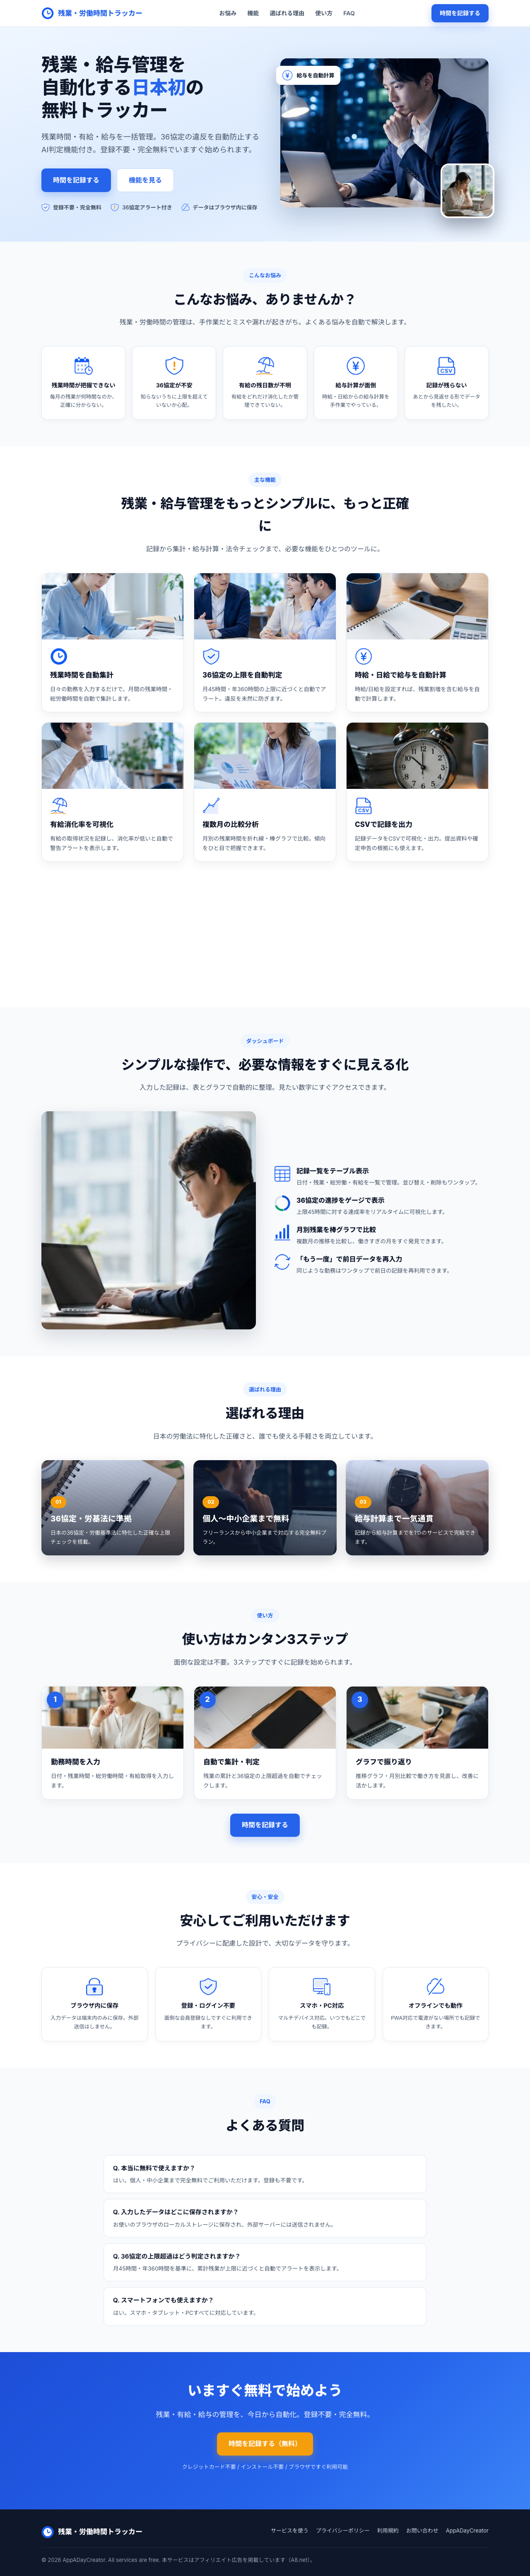
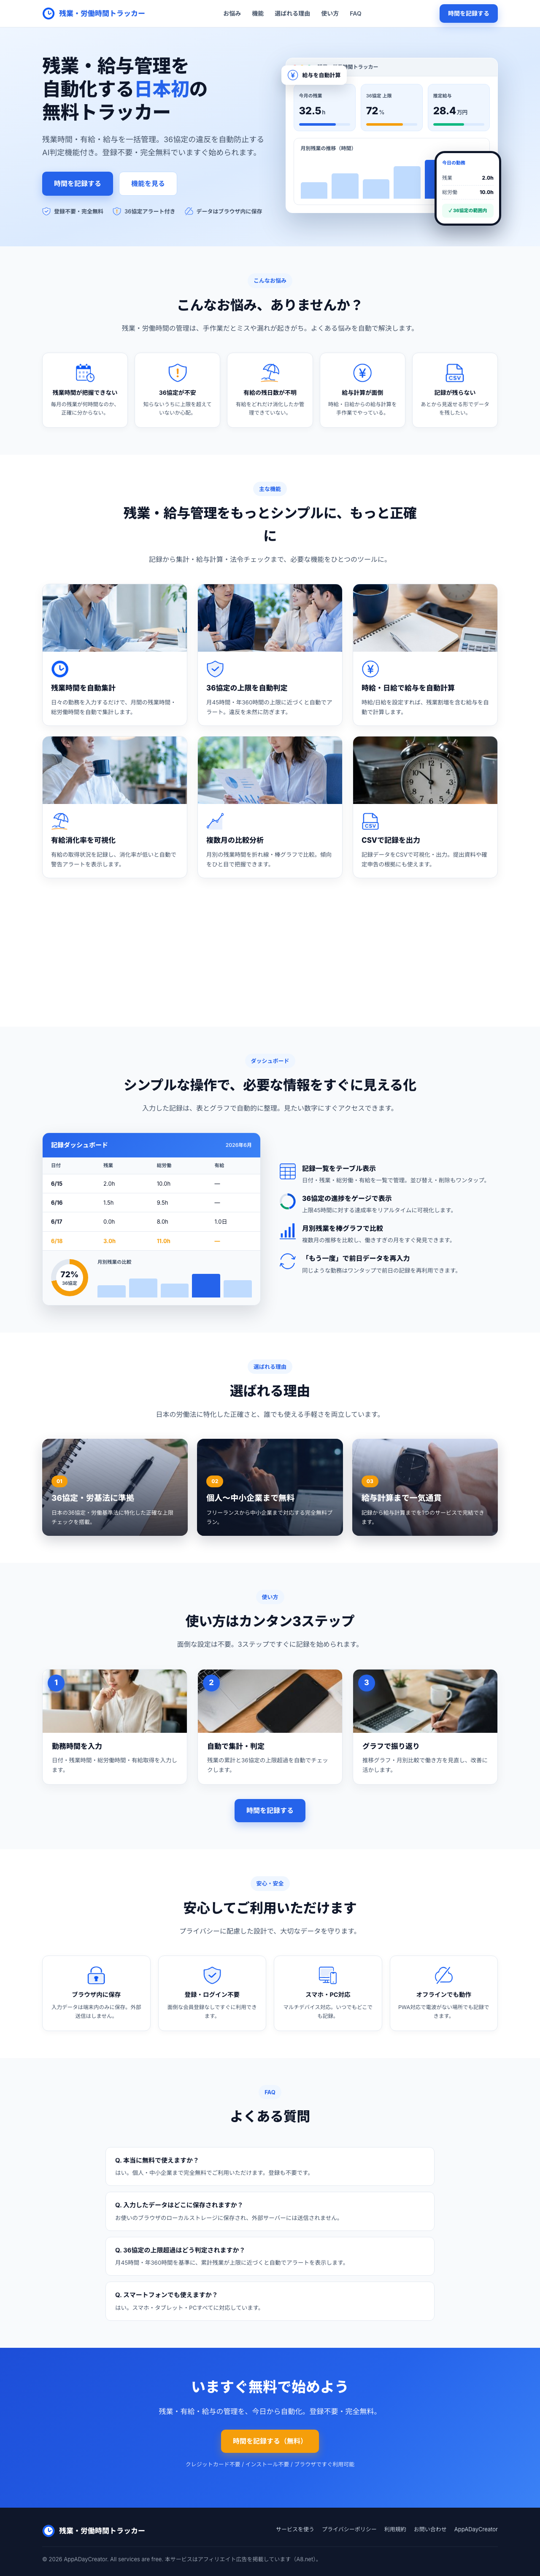
Refine: step7 compare-and-fix vs ChatGPT mockup

diff --git a/lp/index.html b/lp/index.html
@@ -33,7 +33,7 @@ j=d.createElement(s),dl=l!="dataLayer"?"&l="+l:"";j.async=true;j.src=
 *{margin:0;padding:0;box-sizing:border-box}
 :root{--blue:#2563EB;--blue-d:#1D4ED8;--amber:#F59E0B;--ink:#0F172A;--gray:#475569;--line:#E2E8F0;--bg:#F8FAFC;--blue-50:#EFF6FF}
 html{scroll-behavior:smooth}
-body{font-family:'Inter','Noto Sans JP',sans-serif;color:var(--ink);background:#fff;line-height:1.7;-webkit-font-smoothing:antialiased}
+body{font-family:'Inter','Noto Sans JP',sans-serif;color:var(--ink);background:#fff;line-height:1.7;-webkit-font-smoothing:antialiased;overflow-x:hidden}
 img{max-width:100%;display:block}
 a{text-decoration:none;color:inherit}
 .wrap{max-width:1120px;margin:0 auto;padding:0 20px}
@@ -54,14 +54,15 @@ a{text-decoration:none;color:inherit}
 .nav-links a:hover{color:var(--blue)}
 .nav .btn{padding:10px 20px;font-size:14px}
 /* hero */
-.hero{background:linear-gradient(160deg,#EFF6FF 0%,#DBEAFE 55%,#EFF6FF 100%);position:relative;overflow:hidden;padding:64px 0 72px}
+.hero{background:linear-gradient(135deg,#EFF6FF 0%,#BFDBFE 40%,#60A5FA 80%,#3B82F6 100%);position:relative;overflow:visible;padding:64px 0 90px}
+.hero::after{content:"";position:absolute;right:-120px;top:-120px;width:420px;height:420px;border-radius:50%;background:radial-gradient(circle,rgba(255,255,255,.55),rgba(255,255,255,0) 70%);pointer-events:none}
 .hero-grid{display:grid;grid-template-columns:1.05fr 1fr;gap:48px;align-items:center}
 .hero h1{font-size:44px;line-height:1.25;font-weight:800;letter-spacing:-.01em}
 .hero h1 .hl{color:var(--blue)}
 .hero p.lead{margin:22px 0 30px;font-size:18px;color:var(--gray)}
 .hero-cta{display:flex;gap:14px;flex-wrap:wrap}
 .hero-meta{display:flex;gap:22px;margin-top:26px;flex-wrap:wrap}
-.hero-meta div{display:flex;align-items:center;gap:8px;font-size:13px;font-weight:600;color:var(--gray)}
+.hero-meta div{display:flex;align-items:center;gap:8px;font-size:13px;font-weight:700;color:#1E293B}
 .hero-meta img{width:20px;height:20px}
 .hero-visual{position:relative}
 .hero-visual .dash{border-radius:16px;box-shadow:0 24px 60px rgba(30,58,95,.22);border:1px solid #fff;width:100%}
@@ -90,8 +91,9 @@ a{text-decoration:none;color:inherit}
 .mc-bars{display:flex;align-items:flex-end;gap:10px;height:96px}
 .mc-bars i{flex:1;background:#BFDBFE;border-radius:5px 5px 0 0}
 .mc-bars i.hi{background:var(--blue)}
-.mock-phone{position:absolute;right:-8px;bottom:-30px;width:158px;background:#fff;border:5px solid #0F172A;border-radius:24px;padding:14px 13px;box-shadow:0 22px 46px rgba(15,23,42,.32);z-index:2}
-.mp-top{font-size:11px;font-weight:800;color:var(--blue);margin-bottom:10px}
+.mock-phone{position:absolute;right:-30px;bottom:-44px;width:182px;background:#fff;border:6px solid #0F172A;border-radius:28px;padding:16px 14px;box-shadow:0 26px 54px rgba(15,23,42,.38);z-index:2}
+.mock-phone::before{content:"";position:absolute;top:7px;left:50%;transform:translateX(-50%);width:46px;height:5px;border-radius:5px;background:#0F172A}
+.mp-top{font-size:11px;font-weight:800;color:var(--blue);margin:6px 0 10px}
 .mp-row{display:flex;justify-content:space-between;align-items:center;font-size:12px;padding:6px 0;border-bottom:1px dashed var(--line)}
 .mp-row span{color:var(--gray)}.mp-row b{font-weight:800}
 .mp-ok{margin-top:10px;background:#ECFDF5;color:#059669;font-size:11px;font-weight:800;text-align:center;padding:7px;border-radius:8px}
@@ -121,7 +123,9 @@ section{padding:64px 0}
 .sec-head h2{font-size:32px;font-weight:800;letter-spacing:-.01em}
 .sec-head p{margin-top:14px;color:var(--gray);font-size:16px}
 /* worry cards */
-.bg-soft{background:var(--bg)}
+.bg-soft{background:linear-gradient(180deg,#F1F5F9,#F8FAFC);border-top:1px solid var(--line);border-bottom:1px solid var(--line)}
+section{border-top:1px solid transparent}
+.bg-soft+section,section+.bg-soft{margin-top:0}
 .worry{display:grid;grid-template-columns:repeat(5,1fr);gap:16px}
 .worry .c{background:#fff;border:1px solid var(--line);border-radius:14px;padding:24px 16px;text-align:center;box-shadow:0 4px 14px rgba(15,23,42,.04)}
 .worry .c img{width:46px;height:46px;margin:0 auto 12px}
@@ -170,10 +174,14 @@ section{padding:64px 0}
 .trust .c h3{font-size:14.5px;font-weight:700;margin-bottom:6px}
 .trust .c p{font-size:12.5px;color:var(--gray)}
 /* final cta */
-.final{background:linear-gradient(135deg,#1D4ED8,#2563EB 60%,#3B82F6);color:#fff;text-align:center;position:relative;overflow:hidden}
-.final h2{font-size:34px;font-weight:800}
-.final p{margin:16px 0 28px;font-size:17px;opacity:.94}
-.final .note{margin-top:16px;font-size:13px;opacity:.85}
+.final{background:linear-gradient(135deg,#F59E0B,#FBBF24 55%,#FCD34D);color:#7C2D12;text-align:center;position:relative;overflow:hidden}
+.final::before{content:"";position:absolute;inset:0;background:radial-gradient(circle at 80% 20%,rgba(255,255,255,.45),rgba(255,255,255,0) 55%);pointer-events:none}
+.final .wrap{position:relative;z-index:1}
+.final h2{font-size:34px;font-weight:800;color:#78350F}
+.final p{margin:16px 0 28px;font-size:17px;color:#92400E}
+.final .note{margin-top:16px;font-size:13px;color:#92400E;opacity:.9}
+.final .btn-amber{background:#1D4ED8;color:#fff;box-shadow:0 10px 26px rgba(15,23,42,.28)}
+.final .btn-amber:hover{background:#1E40AF;filter:none}
 /* footer */
 footer.ft{background:#0F172A;color:#cbd5e1;padding:40px 0 28px;font-size:13px}
 footer.ft a{color:#cbd5e1}